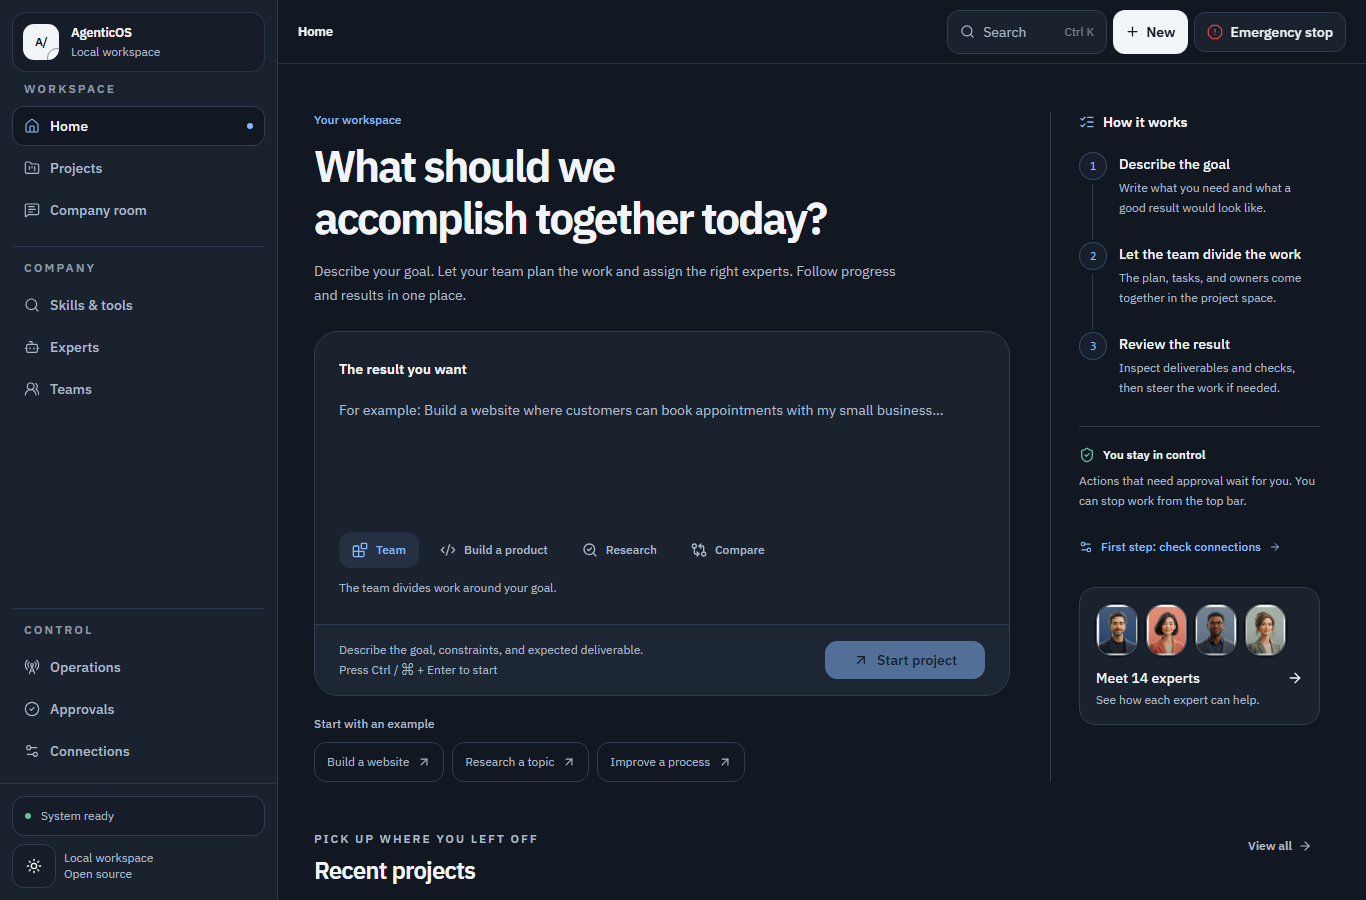
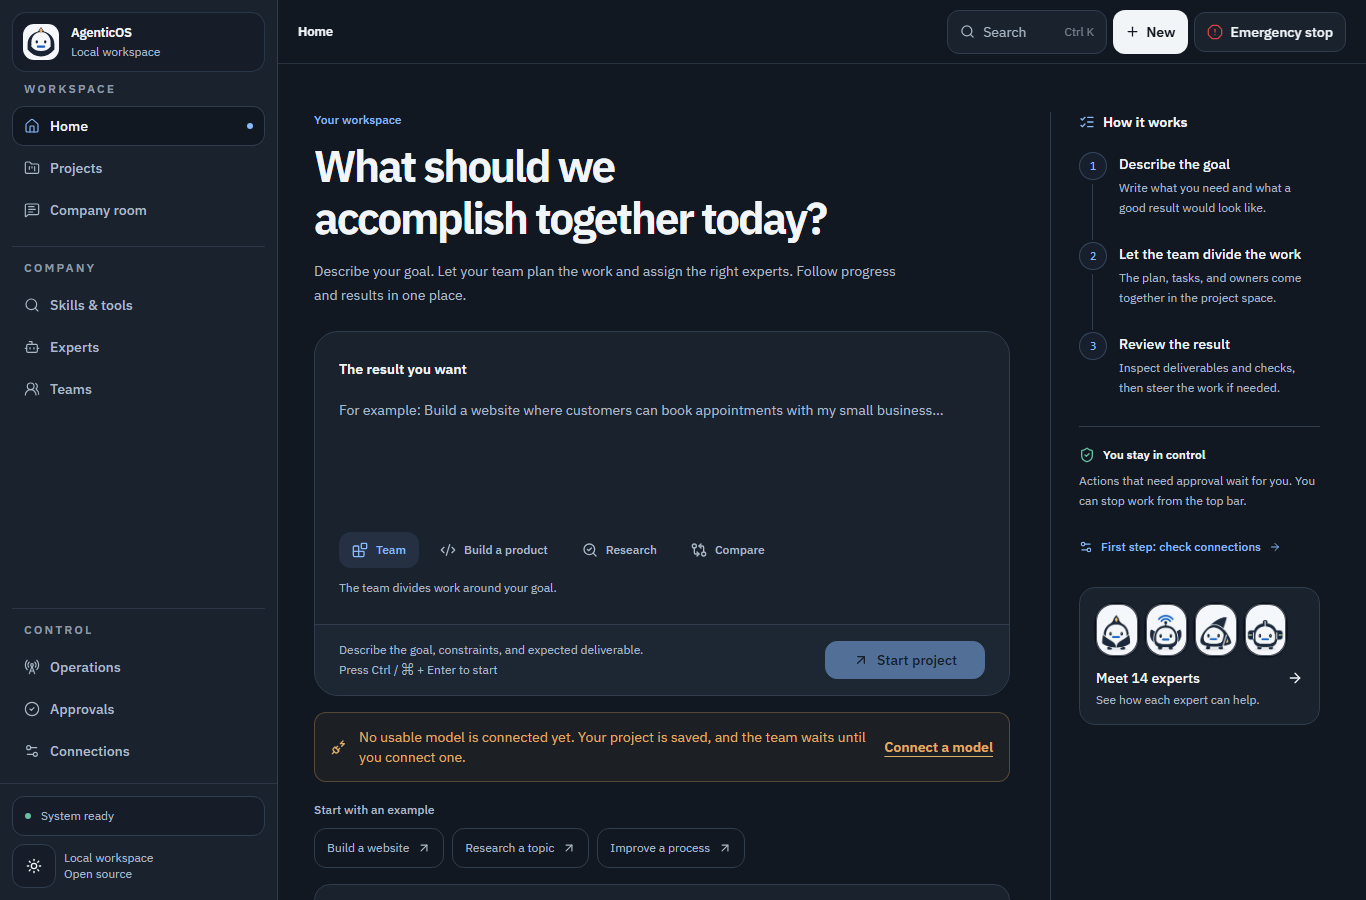
Replace stock portraits with original Keeper mascots (#32)
Ship the original Keeper family across built-in agent roles, matching app mark, localized profile copy, and documented source assets. Required PR checks passed on Linux, Windows, macOS, containers, and security scans.

diff --git a/artifacts/agentic-company-os/src/components/agent/agent-avatar.tsx b/artifacts/agentic-company-os/src/components/agent/agent-avatar.tsx
@@ -1,9 +1,9 @@
 import { useEffect, useState } from "react";
 import type { Agent } from "@workspace/api-client-react";
-import rosterAtlasUrl from "@/assets/company-roster-atlas.webp";
+import rosterAtlasUrl from "@/assets/company-keeper-atlas.webp";
 import { cn } from "@/lib/utils";
 
-const TEMPLATE_PORTRAIT_INDEX: Record<string, number> = {
+const TEMPLATE_MASCOT_INDEX: Record<string, number> = {
   ceo: 0,
   marketing_director: 1,
   sales_director: 2,
@@ -14,6 +14,11 @@ const TEMPLATE_PORTRAIT_INDEX: Record<string, number> = {
   research_director: 7,
   support_director: 8,
   content_director: 9,
+  specialist: 7,
+  ux_designer: 5,
+  quality_engineer: 3,
+  data_analyst: 7,
+  automation_specialist: 6,
 };
 
 const SIZE_CLASS = {
@@ -24,9 +29,9 @@ const SIZE_CLASS = {
   xl: "h-[7.5rem] w-24 rounded-[1.4rem]",
 } as const;
 
-function portraitIndex(agent: Agent): number {
-  if (agent.templateKey && TEMPLATE_PORTRAIT_INDEX[agent.templateKey] != null) {
-    return TEMPLATE_PORTRAIT_INDEX[agent.templateKey];
+function mascotIndex(agent: Agent): number {
+  if (agent.templateKey && TEMPLATE_MASCOT_INDEX[agent.templateKey] != null) {
+    return TEMPLATE_MASCOT_INDEX[agent.templateKey];
   }
   return Math.abs(agent.id - 1) % 10;
 }
@@ -39,14 +44,14 @@ export function AgentAvatar({
   className,
 }: {
   agent: Agent;
-  /** undefined uses the persisted endpoint, null forces the built-in portrait. */
+  /** undefined uses the persisted endpoint, null forces the built-in mascot. */
   imageSrc?: string | null;
   size?: keyof typeof SIZE_CLASS;
   showStatus?: boolean;
   className?: string;
 }) {
   const [customImageFailed, setCustomImageFailed] = useState(false);
-  const index = portraitIndex(agent);
+  const index = mascotIndex(agent);
   const column = index % 5;
   const row = Math.floor(index / 5);
   const persistedImage = agent.avatarVersion
@@ -89,10 +94,6 @@ export function AgentAvatar({
           }}
         />
       )}
-      <span
-        aria-hidden="true"
-        className="pointer-events-none absolute inset-0 rounded-[inherit] bg-gradient-to-t from-black/20 via-transparent to-white/10"
-      />
       {showStatus ? (
         <span
           aria-hidden="true"

diff --git a/artifacts/agentic-company-os/src/lib/expert-detail-copy/expert-detail-ru.ts b/artifacts/agentic-company-os/src/lib/expert-detail-copy/expert-detail-ru.ts
@@ -91,14 +91,14 @@ const copy: ExpertDetailCopy = {
   oldest: "Самое раннее событие выборки",
   records: "События активности в выборке",
   avatar: "Портрет",
-  avatarBuiltin: "Встроенный портрет",
-  avatarCustom: "Свой портрет",
+  avatarBuiltin: "Встроенный маскот",
+  avatarCustom: "Своё изображение",
   avatarHelp:
     "PNG, JPEG или WebP до 5 МБ. Браузер локально обрезает и сжимает изображение, затем сохраняет копию до 64 КБ на вашем сервере. Исходный файл не отправляется в сервис изображений.",
   chooseImage: "Выбрать изображение",
   processing: "Подготовка…",
   preview: "Несохранённый просмотр",
-  resetAvatar: "Использовать встроенный портрет",
+  resetAvatar: "Использовать встроенного маскота",
   saveAvatar: "Сохранить портрет",
   avatarFileError:
     "Выберите непустой файл PNG, JPEG или WebP размером до 5 МБ.",

diff --git a/artifacts/agentic-company-os/src/components/layout/app-shell.tsx b/artifacts/agentic-company-os/src/components/layout/app-shell.tsx
@@ -381,13 +381,14 @@ function Sidebar({
           aria-label={t("home")}
           className="flex min-w-0 items-center gap-[12px] rounded-[14px] border border-border/80 bg-background/45 p-[10px] transition-colors hover:border-foreground/15 hover:bg-background focus-visible:outline-none focus-visible:ring-2 focus-visible:ring-primary sm:gap-3 sm:p-2.5"
         >
-          <span className="relative grid size-[36px] shrink-0 place-items-center overflow-hidden rounded-[11px] bg-foreground text-[12px] font-semibold tracking-[-0.05em] text-background">
-            A/
-            <span
-              aria-hidden
-              className="absolute -bottom-2 -right-2 size-5 rounded-full border border-background/45"
-            />
-          </span>
+          <img
+            src="/favicon.svg"
+            alt=""
+            aria-hidden="true"
+            width="36"
+            height="36"
+            className="size-[36px] shrink-0 rounded-[11px]"
+          />
           <span className="min-w-0 flex-1">
             <span className="block truncate text-[13px] font-semibold tracking-[-0.02em] text-foreground">
               AgenticOS

diff --git a/artifacts/agentic-company-os/src/lib/expert-detail-copy/expert-detail-ar.ts b/artifacts/agentic-company-os/src/lib/expert-detail-copy/expert-detail-ar.ts
@@ -88,14 +88,14 @@ const copy: ExpertDetailCopy = {
   oldest: "أقدم حدث في العينة",
   records: "أحداث النشاط في العينة",
   avatar: "الصورة الشخصية",
-  avatarBuiltin: "صورة مدمجة",
+  avatarBuiltin: "التميمة المدمجة",
   avatarCustom: "صورة مخصصة",
   avatarHelp:
     "PNG أو JPEG أو WebP حتى 5 ميغابايت. يقص المتصفح الصورة ويضغطها محليًا ثم يحفظ نسخة لا تتجاوز 64 كيلوبايت على خادمك. لا يُرسل الملف الأصلي إلى خدمة صور.",
   chooseImage: "اختيار صورة",
   processing: "جارٍ التحضير…",
   preview: "معاينة غير محفوظة",
-  resetAvatar: "استخدام الصورة المدمجة",
+  resetAvatar: "استخدام التميمة المدمجة",
   saveAvatar: "حفظ الصورة",
   avatarFileError:
     "اختر ملف PNG أو JPEG أو WebP غير فارغ لا يتجاوز 5 ميغابايت.",

diff --git a/artifacts/agentic-company-os/src/lib/expert-detail-copy/expert-detail-de.ts b/artifacts/agentic-company-os/src/lib/expert-detail-copy/expert-detail-de.ts
@@ -91,14 +91,14 @@ const copy: ExpertDetailCopy = {
   oldest: "Ältestes erfasstes Ereignis",
   records: "Erfasste Aktivitätsereignisse",
   avatar: "Porträt",
-  avatarBuiltin: "Integriertes Porträt",
-  avatarCustom: "Eigenes Porträt",
+  avatarBuiltin: "Integriertes Maskottchen",
+  avatarCustom: "Eigenes Bild",
   avatarHelp:
     "PNG, JPEG oder WebP bis 5 MB. Der Browser schneidet und komprimiert lokal und speichert eine Kopie bis 64 KB auf deinem Server. Die Originaldatei wird nicht an einen Bilderdienst gesendet.",
   chooseImage: "Bild wählen",
   processing: "Wird vorbereitet…",
   preview: "Ungespeicherte Vorschau",
-  resetAvatar: "Integriertes Porträt verwenden",
+  resetAvatar: "Integriertes Maskottchen verwenden",
   saveAvatar: "Porträt speichern",
   avatarFileError:
     "Wähle eine nicht leere PNG-, JPEG- oder WebP-Datei bis 5 MB.",

diff --git a/artifacts/agentic-company-os/src/lib/expert-detail-copy/expert-detail-tr.ts b/artifacts/agentic-company-os/src/lib/expert-detail-copy/expert-detail-tr.ts
@@ -90,14 +90,14 @@ const copy: ExpertDetailCopy = {
   oldest: "Örneklemdeki en eski olay",
   records: "İncelenen etkinlikler",
   avatar: "Portre",
-  avatarBuiltin: "Yerleşik portre",
-  avatarCustom: "Özel portre",
+  avatarBuiltin: "Yerleşik maskot",
+  avatarCustom: "Özel görsel",
   avatarHelp:
     "PNG, JPEG veya WebP, en fazla 5 MB. Tarayıcı yerelde kırpıp sıkıştırır, ardından en fazla 64 KB kopyayı kendi sunucuna kaydeder. Özgün dosya bir görsel servisine gönderilmez.",
   chooseImage: "Görsel seç",
   processing: "Hazırlanıyor…",
   preview: "Kaydedilmemiş önizleme",
-  resetAvatar: "Yerleşik portreyi kullan",
+  resetAvatar: "Yerleşik maskotu kullan",
   saveAvatar: "Portreyi kaydet",
   avatarFileError:
     "En fazla 5 MB olan, boş olmayan bir PNG, JPEG veya WebP dosyası seç.",

diff --git a/artifacts/agentic-company-os/src/lib/expert-detail-copy/expert-detail-en.ts b/artifacts/agentic-company-os/src/lib/expert-detail-copy/expert-detail-en.ts
@@ -91,14 +91,14 @@ const copy: ExpertDetailCopy = {
   oldest: "Oldest sampled event",
   records: "Sampled activity events",
   avatar: "Portrait",
-  avatarBuiltin: "Built-in portrait",
-  avatarCustom: "Custom portrait",
+  avatarBuiltin: "Built-in mascot",
+  avatarCustom: "Custom image",
   avatarHelp:
     "PNG, JPEG or WebP, up to 5 MB. The browser crops and compresses locally, then saves a copy of at most 64 KB on your own server. The original file is not sent to an image service.",
   chooseImage: "Choose image",
   processing: "Preparing…",
   preview: "Unsaved preview",
-  resetAvatar: "Use built-in portrait",
+  resetAvatar: "Use built-in mascot",
   saveAvatar: "Save portrait",
   avatarFileError:
     "Choose a nonempty PNG, JPEG or WebP file no larger than 5 MB.",

diff --git a/artifacts/agentic-company-os/src/lib/expert-detail-copy/expert-detail-zh-CN.ts b/artifacts/agentic-company-os/src/lib/expert-detail-copy/expert-detail-zh-CN.ts
@@ -80,14 +80,14 @@ const copy: ExpertDetailCopy = {
   oldest: "样本中最早的事件",
   records: "活动事件样本数",
   avatar: "头像",
-  avatarBuiltin: "内置头像",
+  avatarBuiltin: "内置吉祥物",
   avatarCustom: "自定义头像",
   avatarHelp:
     "支持 PNG、JPEG 或 WebP，最大 5 MB。浏览器在本地裁剪和压缩，再将不超过 64 KB 的副本保存到你自己的服务器。原文件不会发送到图像服务。",
   chooseImage: "选择图像",
   processing: "正在准备…",
   preview: "未保存的预览",
-  resetAvatar: "使用内置头像",
+  resetAvatar: "使用内置吉祥物",
   saveAvatar: "保存头像",
   avatarFileError: "请选择不超过 5 MB 的非空 PNG、JPEG 或 WebP 文件。",
   avatarPrepareError:

diff --git a/artifacts/agentic-company-os/src/lib/expert-detail-copy/expert-detail-zh-TW.ts b/artifacts/agentic-company-os/src/lib/expert-detail-copy/expert-detail-zh-TW.ts
@@ -80,14 +80,14 @@ const copy: ExpertDetailCopy = {
   oldest: "樣本中最早的事件",
   records: "活動事件樣本數",
   avatar: "頭像",
-  avatarBuiltin: "內建頭像",
+  avatarBuiltin: "內建吉祥物",
   avatarCustom: "自訂頭像",
   avatarHelp:
     "支援 PNG、JPEG 或 WebP，最大 5 MB。瀏覽器在本機裁剪和壓縮，再將不超過 64 KB 的副本儲存到你自己的伺服器。原檔案不會傳送到影像服務。",
   chooseImage: "選擇影像",
   processing: "正在準備…",
   preview: "未儲存的預覽",
-  resetAvatar: "使用內建頭像",
+  resetAvatar: "使用內建吉祥物",
   saveAvatar: "儲存頭像",
   avatarFileError: "請選擇不超過 5 MB 的非空 PNG、JPEG 或 WebP 檔案。",
   avatarPrepareError:

diff --git a/docs/assets/keeper-mascots.md b/docs/assets/keeper-mascots.md
@@ -1,0 +1,34 @@
+# Keeper mascots
+
+The ten Keepers are Agentic Company OS's built-in agent identities. They make a
+team recognizable without suggesting that a fictional portrait is a real
+employee. They appear where an agent identity helps navigation; task state still
+comes from the backend and is never inferred from a mascot.
+
+The atlas is a 5-column by 2-row sprite sheet. In reading order its roles are
+leader, marketing, sales, operations, finance, product, engineering, research,
+support, and content. The specialist templates reuse the closest role: design
+uses product, quality uses operations, data uses research, and automation uses
+engineering. Custom agents receive a stable sprite from their ID. A user-uploaded
+image continues to override the built-in mascot and can be reset in the profile.
+
+The family uses an ink-navy shell (`#192334`), off-white face (`#F5F7FA`), a
+single cobalt signal (`#1A5BBC`), and occasional small sage or amber marks.
+Each character has the same scale, view, line weight and two-eye face, with a
+different silhouette for its role. They are deliberately static and readable at
+32 px. The mascot does not animate, glow to suggest activity, or substitute for
+an accessible status label.
+
+The atlas was generated specifically for this repository with the built-in
+ImageGen tool from a prompt for ten original, nonhuman, vector-like workspace
+and signal-beacon characters in a strict 5 × 2 grid. The prompt excluded text,
+logos, human portraits, gradients, and resemblance to existing mascots. The
+generated PNG was encoded to WebP with FFmpeg at quality 80; no third-party art
+was used. The committed WebP and SVG favicon are project-owned assets under the
+repository's MIT license. The WebP is the source of truth for the shipped UI.
+
+## Generation prompt
+
+```text
+Create a finished, original mascot sprite atlas for the open-source self-hosted web app 'Agentic Company OS'. Wide 2:1 image, a precise 5-column by 2-row grid of ten equal portrait cells, with no dividing lines, text, labels, logos, or watermarks. Each cell contains exactly one fully visible small nonhuman 'Keeper' character, centered at identical scale with a generous safe margin so it can be cropped into a tiny rounded avatar. The Keepers are a cohesive new species: compact friendly rounded architectural forms inspired by a calm workspace and a signal beacon, off-white porcelain-like faceplate, deep ink-navy outer shell, one crisp cobalt-blue horizontal signal mark, two small expressive eyes, short subtle feet. Distinctive silhouette, restrained editorial 2D vector illustration, precise bold shapes and minimal details that remain recognizable at 32 pixels. Ten visibly different personalities and role cues through silhouette only, in row-major order: leader with calm arched crown, marketing with a soft broadcast fan, sales with forward fin, operations with balanced side tabs, finance with ledger notch, product with layered panel, engineering with squared antenna, research with circular lens, support with gently open side wings, content with speech-bracket crown. Same lighting, size, line weight, palette, and viewpoint in every cell. Palette: navy #192334, cobalt #1A5BBC, soft off-white #F5F7FA, tiny restrained accents in sage or warm amber only where needed. Cell background uniformly #F5F7FA. Sophisticated and warm, credible in a professional operations app, no human portraits, no generic robot heads, no neon, no gradients, no 3D rendering, no copies of or resemblance to any existing company's mascot. Export as a clean raster atlas with accurate equal grid alignment.
+```

diff --git a/docs/assets/README.md b/docs/assets/README.md
@@ -4,15 +4,18 @@ The visual assets distributed with Agentic Company OS are project-owned and
 covered by the repository's MIT license unless a file says otherwise.
 
 - `dashboard.png` is the English dark desktop Home view (1366 × 900), captured
-  and visually inspected on 28 September 2026 from the final local production
-  build. Its source is the `route-foundations` fixture in the successful 903-case
-  Chromium run. It contains fictional seeded agents and no third-party product
-  screen. See the [combined verification record](../verification/2026-09-28-full-release-gates.md)
-  for build/capture hashes and acceptance limits.
-- `artifacts/agentic-company-os/src/assets/company-roster-atlas.webp` contains
-  synthetic, fictional employee portraits created for this project. They are
-  not intended to depict or impersonate real people.
-- `artifacts/agentic-company-os/public/favicon.svg` is project artwork.
+  and visually inspected on 30 September 2026 from the local production build
+  with Keeper mascots. Its source is the passing `route-foundations` Chromium
+  fixture. It contains fictional seeded agents and no third-party product
+  screen. The older [combined verification record](../verification/2026-09-28-full-release-gates.md)
+  describes a previous build, not this screenshot.
+- `artifacts/agentic-company-os/src/assets/company-keeper-atlas.webp` contains
+  ten original, fictional Keeper mascots created for this project with the
+  built-in ImageGen tool and encoded as WebP for the application. The characters
+  do not depict or impersonate people. Their order and visual rules are in
+  [keeper-mascots.md](keeper-mascots.md).
+- `artifacts/agentic-company-os/public/favicon.svg` is project artwork derived
+  from the first Keeper's visual grammar.
 
 Do not add scraped headshots, customer data, screenshots containing credentials,
 or assets with unclear redistribution rights. A pull request that adds a new

diff --git a/DESIGN.md b/DESIGN.md
@@ -108,6 +108,16 @@ Cool neutral layers, an ink-colored dark canvas, one blue command signal, semant
 
 The default mode follows the operating system. Light and dark modes share the same information structure and are checked independently.
 
+### Agent identity
+
+The built-in Keeper mascots are a quiet, original identity family for the agent
+roster. Their navy shell and blue signal follow the existing palette, and their
+role-specific silhouettes distinguish teammates at compact sizes. They appear
+only where an agent identity is useful. Custom images remain an operator choice.
+Mascots are static: activity, recovery, and failure must be conveyed by the
+backend-backed status UI and readable text, never by character expression or
+decorative motion. See [the asset notes](docs/assets/keeper-mascots.md).
+
 ### Anti-references
 
 - No neon cyber/NOC treatment, purple fog, glass stacks, decorative grid overload, or fake scanners.
